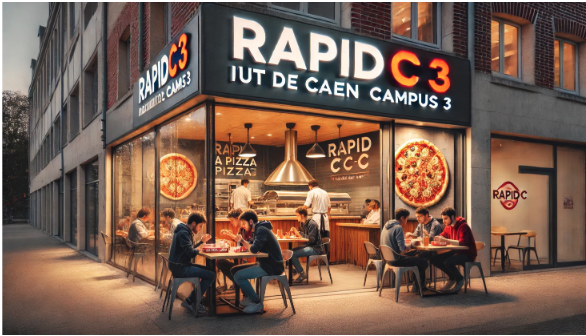
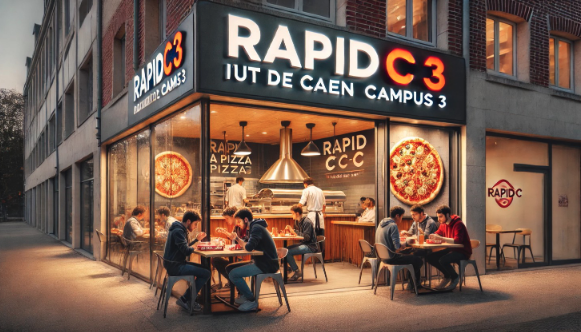
cration de la nav bar gauche+correction des bordure de l'img

diff --git a/web/assets/css/navbar.css b/web/assets/css/navbar.css
@@ -73,7 +73,6 @@
 
 #content {
     padding: 0px;
-    padding-bottom: 70px;
     min-height: 100vh;
     box-sizing: border-box;
     transition: opacity 0.3s ease;

diff --git a/web/page/menu.php b/web/page/menu.php
@@ -1,0 +1,75 @@
+<div class="max-w-7xl mx-auto px-4 py-4">
+    <!-- Barre de recherche -->
+    <div class="flex items-center mb-8">
+        <div class="flex items-center w-full">
+            <span class="material-icons text-3xl mr-2">search</span>
+            <input type="text" placeholder="Rechercher..." class="w-full rounded-full px-6 py-3 bg-gray-300 text-lg focus:outline-none" />
+        </div>
+    </div>
+    <!-- Titre -->
+    <h1 class="text-6xl font-extrabold text-orange-400 mb-8 tracking-tight" style="font-family: 'Montserrat', sans-serif;">PLATS</h1>
+    <!-- Cartes des plats -->
+    <div class="flex flex-wrap justify-center gap-8">
+        <!-- Plat 1 -->
+        <div class="flex flex-col items-center w-[340px] group">
+            <div class="relative w-full">
+                <img src="img/rapidc3.png" alt="Pizza 4 fromages"
+                     class="rounded-2xl border-4 border-orange-400 w-full h-48 object-cover mb-2" />
+                <!-- Description overlay -->
+                <div class="absolute top-0 left-0 w-full h-full flex-col items-center justify-center bg-black bg-opacity-70 rounded-2xl hidden group-hover:flex transition">
+                    <div class="w-full text-center bg-white bg-opacity-90 rounded-t-2xl border-2 border-orange-400 border-b-0 font-bold py-1 text-lg">Description</div>
+                    <div class="px-4 py-2 text-white font-bold text-base text-center">
+                        La pizza est une recette de cuisine traditionnelle de la cuisine italienne, originaire de <span class="underline">Naples</span> à base de galette de pâte à pain, garnie principalement d'huile d'olive, de sauce tomate, de mozzarella et d'autres ingrédients.
+                    </div>
+                </div>
+            </div>
+            <div class="text-center font-bold text-xl mt-2">Pizza 4 fromages</div>
+            <div class="text-center font-bold text-lg mb-4">25€</div>
+            <div class="flex gap-4 w-full justify-center">
+                <button class="border-2 border-orange-400 text-orange-400 font-bold rounded-full px-6 py-2 transition hover:bg-orange-100">Ajouter au panier</button>
+                <button class="bg-orange-400 text-white font-bold rounded-full px-8 py-2 transition hover:bg-orange-500">Commander</button>
+            </div>
+        </div>
+        <!-- Plat 2 -->
+        <div class="flex flex-col items-center w-[340px] group">
+            <div class="relative w-full">
+                <img src="img/rapidc3.png" alt="Pizza 2 fromages"
+                     class="rounded-2xl border-4 border-orange-400 w-full h-48 object-cover mb-2" />
+                <!-- Description overlay -->
+                <div class="absolute top-0 left-0 w-full h-full flex-col items-center justify-center bg-black bg-opacity-70 rounded-2xl hidden group-hover:flex transition">
+                    <div class="w-full text-center bg-white bg-opacity-90 rounded-t-2xl border-2 border-orange-400 border-b-0 font-bold py-1 text-lg">Description</div>
+                    <div class="px-4 py-2 text-white font-bold text-base text-center">
+                        La pizza est une recette de cuisine traditionnelle de la cuisine italienne, originaire de <span class="underline">Naples</span> à base de galette de pâte à pain, garnie principalement d'huile d'olive, de sauce tomate, de mozzarella et d'autres ingrédients.
+                    </div>
+                </div>
+            </div>
+            <div class="text-center font-bold text-xl mt-2">Pizza 2 fromages</div>
+            <div class="text-center font-bold text-lg mb-4">25€</div>
+            <div class="flex gap-4 w-full justify-center">
+                <button class="border-2 border-orange-400 text-orange-400 font-bold rounded-full px-6 py-2 transition hover:bg-orange-100">Ajouter au panier</button>
+                <button class="bg-orange-400 text-white font-bold rounded-full px-8 py-2 transition hover:bg-orange-500">Commander</button>
+            </div>
+        </div>
+        <!-- Plat 3 -->
+        <div class="flex flex-col items-center w-[340px] group">
+            <div class="relative w-full">
+                <img src="img/rapidc3.png" alt="Pizza 3 fromages"
+                     class="rounded-2xl border-4 border-orange-400 w-full h-48 object-cover mb-2" />
+                <!-- Description overlay -->
+                <div class="absolute top-0 left-0 w-full h-full flex-col items-center justify-center bg-black bg-opacity-70 rounded-2xl hidden group-hover:flex transition">
+                    <div class="w-full text-center bg-white bg-opacity-90 rounded-t-2xl border-2 border-orange-400 border-b-0 font-bold py-1 text-lg">Description</div>
+                    <div class="px-4 py-2 text-white font-bold text-base text-center">
+                        La pizza est une recette de cuisine traditionnelle de la cuisine italienne, originaire de <span class="underline">Naples</span> à base de galette de pâte à pain, garnie principalement d'huile d'olive, de sauce tomate, de mozzarella et d'autres ingrédients.
+                    </div>
+                </div>
+            </div>
+            <div class="text-center font-bold text-xl mt-2">Pizza 3 fromages</div>
+            <div class="text-center font-bold text-lg mb-4">25€</div>
+            <div class="flex gap-4 w-full justify-center">
+                <button class="border-2 border-orange-400 text-orange-400 font-bold rounded-full px-6 py-2 transition hover:bg-orange-100">Ajouter au panier</button>
+                <button class="bg-orange-400 text-white font-bold rounded-full px-8 py-2 transition hover:bg-orange-500">Commander</button>
+            </div>
+        </div>
+    </div>
+</div>
+<link href="https://fonts.googleapis.com/icon?family=Material+Icons" rel="stylesheet">

diff --git a/web/page/accueil.php b/web/page/accueil.php
@@ -1,5 +1,32 @@
-<div class="relative w-full h-screen bg-[url('img/rapidc3.png')] bg-cover bg-center bg-no-repeat">
-    <div class="absolute inset-0 bg-white opacity-80 z-0"></div>
+<div class="fixed inset-0 w-full h-full bg-[url('img/rapidc3.png')] bg-cover bg-center bg-no-repeat z-0">
+    <!-- Zone invisible pour hover menu latéral -->
+    <div class="fixed left-0 top-0 h-full w-10 z-30 group">
+        <!-- Fenêtre latérale affichée au hover -->
+        <div class="absolute left-0 top-1/2 -translate-y-1/2 bg-white shadow-xl rounded-r-2xl px-6 py-8 flex flex-col items-center gap-8 opacity-0 pointer-events-none group-hover:opacity-100 group-hover:pointer-events-auto transition-all duration-300">
+            <a href="?page=accueil.php" class="flex flex-col items-center group">
+                <svg xmlns="http://www.w3.org/2000/svg" class="w-8 h-8 text-orange-400 group-hover:text-orange-500 transition" fill="none" viewBox="0 0 24 24" stroke="currentColor">
+                    <path stroke-linecap="round" stroke-linejoin="round" stroke-width="2" d="M3 12l9-9 9 9M4 10v10a1 1 0 001 1h3m10-11v11a1 1 0 01-1 1h-3m-6 0h6" />
+                </svg>
+                <span class="mt-1 text-xs font-semibold text-gray-700">Accueil</span>
+            </a>
+            <a href="?page=menu.php" class="flex flex-col items-center group">
+                <svg xmlns="http://www.w3.org/2000/svg" class="w-8 h-8 text-orange-400 group-hover:text-orange-500 transition" fill="none" viewBox="0 0 24 24" stroke="currentColor">
+                    <rect x="4" y="8" width="16" height="12" rx="2" stroke-width="2" stroke="currentColor" fill="none"/>
+                    <path d="M9 12h6M9 16h6" stroke-width="2" stroke="currentColor" stroke-linecap="round"/>
+                    <circle cx="12" cy="10" r="1" fill="currentColor"/>
+                </svg>
+                <span class="mt-1 text-xs font-semibold text-gray-700">Menu</span>
+            </a>
+            <a href="?page=panier.php" class="flex flex-col items-center group">
+                <svg xmlns="http://www.w3.org/2000/svg" class="w-8 h-8 text-orange-400 group-hover:text-orange-500 transition" fill="none" viewBox="0 0 24 24" stroke="currentColor">
+                    <path stroke-linecap="round" stroke-linejoin="round" stroke-width="2" d="M3 3h2l.4 2M7 13h10l4-8H5.4M7 13l-1.35 2.7A1 1 0 007 17h10a1 1 0 00.95-.68L21 13M7 13V6a1 1 0 011-1h6a1 1 0 011 1v7" />
+                </svg>
+                <span class="mt-1 text-xs font-semibold text-gray-700">Panier</span>
+            </a>
+        </div>
+    </div>
+
+    <div class="absolute inset-0 bg-white opacity-60"></div>
     <div class="absolute inset-0 flex flex-col items-center justify-center z-10">
         <h1 class="text-7xl font-extrabold tracking-tight mb-4 text-black drop-shadow-lg">RAPID C3</h1>
         <p class="text-2xl font-semibold text-black text-center max-w-2xl drop-shadow-lg">
